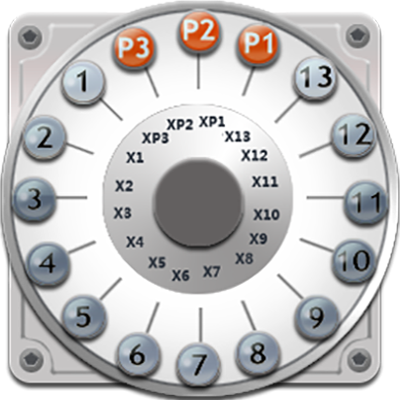
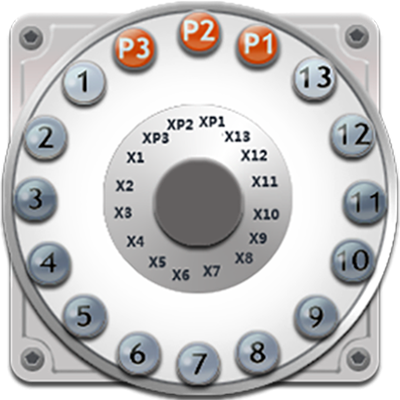
update rotary valve image

diff --git a/ServiceSW/Master/Components/SVCDiagnostics/Source/SVCRotaryValveDlg.cpp b/ServiceSW/Master/Components/SVCDiagnostics/Source/SVCRotaryValveDlg.cpp
@@ -115,9 +115,17 @@ CSVCRotaryValveDlg::CSVCRotaryValveDlg(QWidget* p_Parent):
     ui->graphicsView->setScene(mp_Scene);
     ui->graphicsView->setRenderHints(QPainter::Antialiasing | QPainter::HighQualityAntialiasing | QPainter::SmoothPixmapTransform);
 
+
+    QPen pen;
+    pen.setColor(QColor(82, 103,111));
+    pen.setWidth(3);
+    for (int i = 0; i < 16; i++) {
+        QGraphicsLineItem *line = mp_Scene->addLine(200, 56, 200, 90, pen);
+        line->setTransform(QTransform().translate(200, 200).rotate(22.5 * i).translate(-200, -200));
+    }
+
     // tube item init
-    qreal angle = 0;
-    for (int i = 0; i < 16; i++, angle += 11.25 * 2) {
+    for (int i = 0; i < 16; ++i) {
         rotaryValvePos[i] = new CGraphicsPixmapItem(":/Images/RotaryValveTube.png");
         (void)connect(rotaryValvePos[i], SIGNAL(Clicked(int)), this, SLOT(RotaryValveClicked(int)));
 
@@ -126,15 +134,16 @@ CSVCRotaryValveDlg::CSVCRotaryValveDlg(QWidget* p_Parent):
         rotaryValvePos[i]->setPos(200 - rotaryValvePos[i]->pixmap().width()/2, 4); //
         rotaryValvePos[i]->setTransform(
                     QTransform().translate(rotaryValvePos[i]->pixmap().width()/2, 196)
-                    .rotate(angle)
+                    .rotate(22.5 * i)
                     .translate(-rotaryValvePos[i]->pixmap().width()/2, -196));
         rotaryValvePos[i]->SetTag(i);
     }
 
+    // position calibration
     {
         rotaryValvePos[0]->setPos(166, -1); // 166.000000, y: -1.000000
         rotaryValvePos[1]->setPos(162, -1); // 162.000000, y: -1.000000
-        rotaryValvePos[2]->setPos(166, -4); // 166.000000, y: -3.000000
+        rotaryValvePos[2]->setPos(166, -4); // 166.000000, y: -4.000000
         rotaryValvePos[3]->setPos(169.5, -0.5); //x: 169.500000, y: -0.500000
         rotaryValvePos[4]->setPos(169.5, 5.5); //x: 169.500000, y: 5.500000
         rotaryValvePos[5]->setPos(170, 2.5); //x: 170.000000, y: 2.500000
@@ -145,14 +154,13 @@ CSVCRotaryValveDlg::CSVCRotaryValveDlg(QWidget* p_Parent):
         rotaryValvePos[10]->setPos(166.5, 6); //x: 166.500000, y: 6.000000
         rotaryValvePos[11]->setPos(166, 6); //x: 166.000000, y: 6.000000
         rotaryValvePos[12]->setPos(165, 3.5); //x: 165.000000, y: 3.500000
-        rotaryValvePos[13]->setPos(162, 5); //x: 162.500000, y: 5.500000
+        rotaryValvePos[13]->setPos(162.5, 5.5); //x: 162.500000, y: 5.500000
         rotaryValvePos[14]->setPos(165.5, 1.5); //x: 165.500000, y: 1.500000
         rotaryValvePos[15]->setPos(163, 4); //x: 163.000000, y: 4.000000
     }
 
     // sealing item init
-    angle = 11.25;
-    for (int i = 16; i < 32; i++, angle += 11.25 * 2) {
+    for (int i = 16; i < 32; ++i) {
         rotaryValvePos[i] = new CGraphicsPixmapItem(":/Images/RotaryValveSealing.png", ":/Images/RotaryValveSealingDisable.png");
         (void)connect(rotaryValvePos[i], SIGNAL(Clicked(int)), this, SLOT(RotaryValveClicked(int)));
 
@@ -160,7 +168,7 @@ CSVCRotaryValveDlg::CSVCRotaryValveDlg(QWidget* p_Parent):
         rotaryValvePos[i]->setPos(200 - rotaryValvePos[i]->pixmap().width()/2, 200 - rotaryValvePos[i]->pixmap().height() - 98 + 15); //
         rotaryValvePos[i]->setTransform(
                     QTransform().translate(rotaryValvePos[i]->pixmap().width()/2, rotaryValvePos[i]->pixmap().height() + 98 - 15)
-                    .rotate(angle)
+                    .rotate(11.25 + 22.5 * (i - 16))
                     .translate(-rotaryValvePos[i]->pixmap().width()/2, -rotaryValvePos[i]->pixmap().height() - 98 + 15));
         rotaryValvePos[i]->SetTag(i);
     }
@@ -170,33 +178,6 @@ CSVCRotaryValveDlg::CSVCRotaryValveDlg(QWidget* p_Parent):
     mp_Scene->addItem(rotaryValvePointer);
     rotaryValvePointer->setPos(QPoint(200 - rotaryValvePointer->pixmap().width()/2, 200 - rotaryValvePointer->pixmap().height() + 12)); // P1
 
-// just for debug & test
-//    for (int i = 0; i < 32; i++) {
-//        QGraphicsLineItem *line = mp_Scene->addLine(0, 0, mp_Scene->width(), mp_Scene->height(), QPen(Qt::cyan));
-//        line->setTransform(QTransform().translate(200, 200).rotate(11.25 * i).translate(-200, -200));
-//    }
-
-//    buttonPosX_inc = new QPushButton("x+");
-//    buttonPosX_dec = new QPushButton("x-");
-
-//    buttonPosY_inc = new QPushButton("y+");
-//    buttonPosY_dec = new QPushButton("y-");
-
-//    EditPos = new QLineEdit;
-//    editIndex = new QLineEdit;
-
-//    mp_Scene->addWidget(buttonPosX_inc)->setPos(200, 0);
-//    mp_Scene->addWidget(buttonPosX_dec)->setPos(200, 50);
-//    mp_Scene->addWidget(buttonPosY_inc)->setPos(200, 100);
-
-//    mp_Scene->addWidget(buttonPosY_dec)->setPos(200, 150);
-//    mp_Scene->addWidget(EditPos)->setPos(200, 250);
-//    mp_Scene->addWidget(editIndex)->setPos(200, 300);
-
-//    (void)connect(buttonPosX_inc, SIGNAL(clicked()), this, SLOT(setPosIncrease_x()));
-//    (void)connect(buttonPosX_dec, SIGNAL(clicked()), this, SLOT(setPosDecrease_x()));
-//    (void)connect(buttonPosY_inc, SIGNAL(clicked()), this, SLOT(setPosIncrease_y()));
-//    (void)connect(buttonPosY_dec, SIGNAL(clicked()), this, SLOT(setPosDecrease_y()));
 }
 
 CSVCRotaryValveDlg::~CSVCRotaryValveDlg()
@@ -267,51 +248,8 @@ void CSVCRotaryValveDlg::GetPos(bool &flag, qint32 &position)
         14, 13, 12, 11, 10, 9, 8, 7, 6, 5, 4, 3, 2, 1, 16, 15  // sealing position
     };
 
-    if (tag < 16)
-        flag = true;
-    else
-        flag = false;
+    flag = tag < 16;
     position = pos_table[tag];
 }
-
-//void CSVCRotaryValveDlg::setPosIncrease_x()
-//{
-//    int i = editIndex->text().toInt();
-//    if (i < 0 || i > 32)
-//        return;
-//    QPointF p = rotaryValvePos[i]->pos();
-//    rotaryValvePos[i]->setPos(p.x() + 0.5, p.y());
-//    EditPos->setText(QString().sprintf("x: %f, y: %f", p.x() + 0.5, p.y()));
-//}
-
-//void CSVCRotaryValveDlg::setPosDecrease_x()
-//{
-//    int i = editIndex->text().toInt();
-//    if (i < 0 || i > 32)
-//        return;
-//    QPointF p = rotaryValvePos[i]->pos();
-//    rotaryValvePos[i]->setPos(p.x() - 0.5, p.y());
-//    EditPos->setText(QString().sprintf("x: %f, y: %f", p.x() - 0.5, p.y()));
-//}
-
-//void CSVCRotaryValveDlg::setPosIncrease_y()
-//{
-//    int i = editIndex->text().toInt();
-//    if (i < 0 || i > 32)
-//        return;
-//    QPointF p = rotaryValvePos[i]->pos();
-//    rotaryValvePos[i]->setPos(p.x(), p.y() + 0.5);
-//    EditPos->setText(QString().sprintf("x: %f, y: %f", p.x(), p.y() + 0.5));
-//}
-
-//void CSVCRotaryValveDlg::setPosDecrease_y()
-//{
-//    int i = editIndex->text().toInt();
-//    if (i < 0 || i > 32)
-//        return;
-//    QPointF p = rotaryValvePos[i]->pos();
-//    rotaryValvePos[i]->setPos(p.x(), p.y() - 0.5);
-//    EditPos->setText(QString().sprintf("x: %f, y: %f", p.x(), p.y() - 0.5));
-//}
 
 }//end of namespace SVCDiagnostics

diff --git a/ServiceSW/Master/Components/SVCDiagnostics/Include/SVCRotaryValveDlg.h b/ServiceSW/Master/Components/SVCDiagnostics/Include/SVCRotaryValveDlg.h
@@ -138,11 +138,6 @@ private Q_SLOTS:
     /****************************************************************************/
     void RotaryValveClicked(int tag);
 
-//    void setPosIncrease_x();
-//    void setPosDecrease_x();
-//    void setPosIncrease_y();
-//    void setPosDecrease_y();
-
 private:
     Ui::CRotaryValveDlg* ui;    //!< User interface
     QGraphicsScene *mp_Scene;   //!< graphics scene
@@ -151,16 +146,6 @@ private:
     CGraphicsPixmapItem *rotaryValvePos[32]; //!< 0 - 15: tube, 16-31: sealing
 
     int tag; //!< save rotay valve position
-
-//private:
-//    QPushButton *buttonPosX_inc;
-//    QPushButton *buttonPosX_dec;
-
-//    QPushButton *buttonPosY_inc;
-//    QPushButton *buttonPosY_dec;
-
-//    QLineEdit *EditPos;
-//    QLineEdit *editIndex;
 };
 
 }//end of namespace SVCDiagnostics
